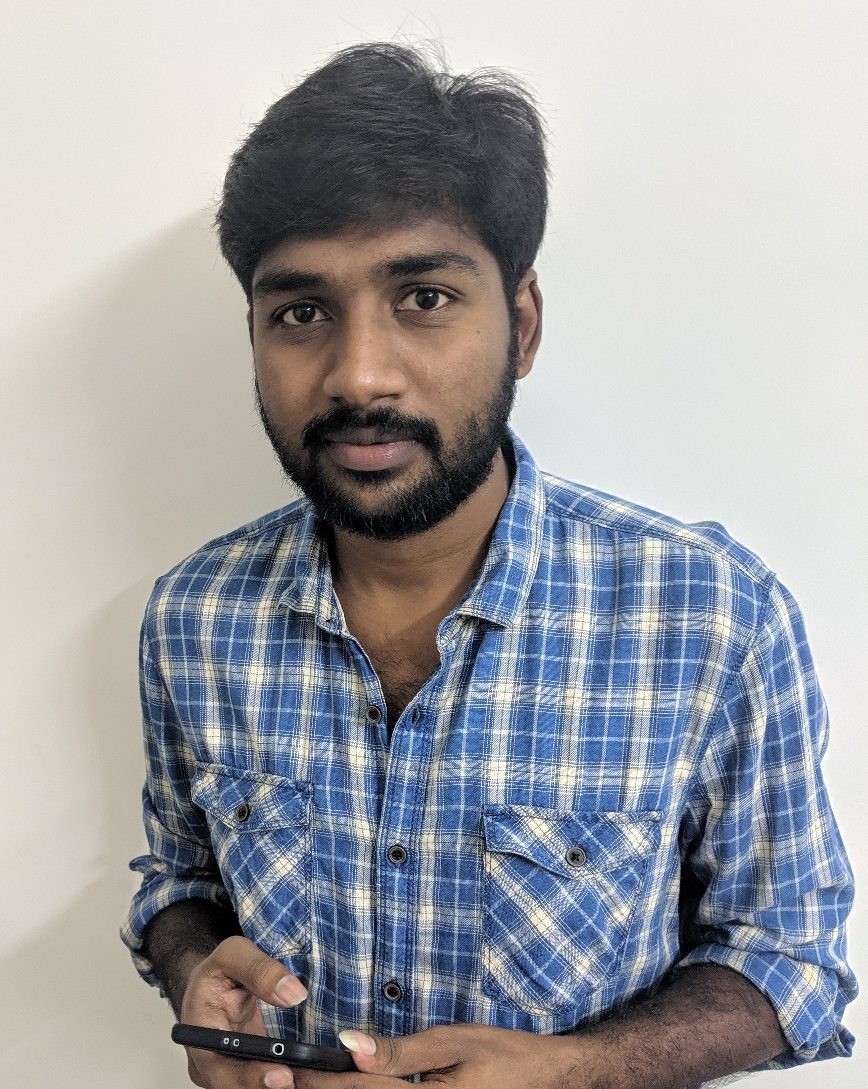
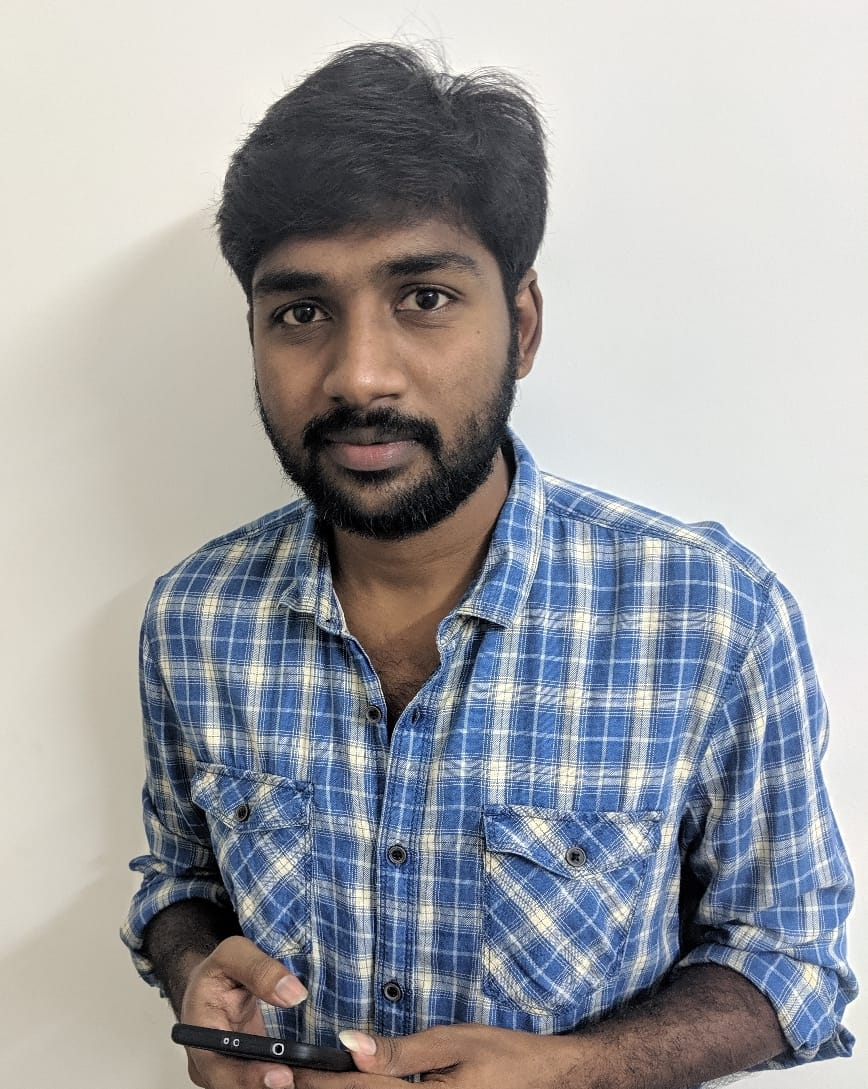
updating content, img optimize
optimize images for web

diff --git a/app/data/schedule.js b/app/data/schedule.js
@@ -3,46 +3,66 @@ export default [
     startTime: "09:00 am",
     endTime: "09:45 am",
     name: "Registration",
-    topicDesc: "After the registration. Come to Freshworks ground floor Cafeteria."
+    topicDesc: "Register your-self at the desk outside Freshworks ground floor cafeteria."
   },
   {
-    startTime: "",
-    endTime: "",
+    startTime: "10:00 am",
+    endTime: "10:30am",
     name: "Octane: Why and How",
     speaker: "Gokul Kathirvel",
     speakerPic: "assets/images/gokul.jpg",
     topicDesc: "A Talk about how Ember Octane, a new edition of Ember.js will help frontend developers to spin modern web apps really easily and quickly. You'll know how the Octane edition utilizes the native platform features like ES Classes, decorators, etc., effectively to write modern apps and how the entire framework aligns itself with the native ecosystem."
   },
   {
-    startTime: "",
-    endTime: "",
+    startTime: "10:30 am",
+    endTime: "11:00 am",
     name: "Differential bundling of assets in Ember",
     speaker: "Sivasubramanyam A",
     speakerPic: "assets/images/siva.jpg",
     topicDesc: "This talk proposes a technique to serve different bundles of app assets transpiled according to the user's browser. This results in a reduced bundle size and faster parsing."
   },
   {
-    startTime: "",
-    endTime: "",
+    startTime: "11:00 am",
+    endTime: "11:10 am",
+    name: "Break",
+    isBreak: true
+  },
+  {
+    startTime: "11:10 am",
+    endTime: "11:40 am",
     name: "Web performance in 2019",
     speaker: "Gopal Venkatesan",
-    speakerPic: "assets/images/gopal.png",
+    speakerPic: "assets/images/gopal.jpeg",
     topicDesc: "Even in 2019 JavaScript is the most expensive resource when compared against HTML, CSS or other media.  In this talk the speaker will walk through various techniques to reduce JavaScript payload to increase the performance of your website.  Also we will learn various tools available to measure the performance and find out bottlenecks of your website."
   },
   {
-    startTime: "",
-    endTime: "",
+    startTime: "11:40 am",
+    endTime: "11:50 am",
     name: "Ember Accessibility",
     speaker: "Kandha Vivek Raj K",
     speakerPic: "assets/images/vivek.jpg",
     topicDesc: "Accessibility is an important aspect of applications. This add-on makes it easy to develop accessible apps by providing contextual feedback wherever necessary."
   },
   {
-    startTime: "",
-    endTime: "",
+    startTime: "11:00 am",
+    endTime: "11:10 am",
+    name: "Break",
+    isBreak: true
+  },
+  {
+    startTime: "12:00 pm",
+    endTime: "12:30 pm",
     name: "Planting Abstract Syntax Trees",
     speaker: "Rajasegar Chandiran",
     speakerPic: "assets/images/Rajasegar.jpg",
     topicDesc: ""
+  },
+  {
+    startTime: "12:30 pm",
+    endTime: "01:00 pm",
+    name: "JAM Stack",
+    speaker: "Kanjarla praneeth",
+    speakerPic: "assets/images/kanjarla-praneeth.jpeg",
+    topicDesc: "Evaluation of JAM stack and how rapidly it's occupying the market.how is the market opportunities  and what ,where to learn"
   }
 ]

diff --git a/README.md b/README.md
@@ -1,21 +1,20 @@
 # chennai-ember-website
  
- This is the repo for emberjs chennai website.
+ This is the repo for Chennai EmberJS website.
  This repo also acts as a showcase of latest ember features
 
- ## Features includes
+ ## Features include
 * [Ember Octane](https://emberjs.github.io/rfcs/0364-roadmap-2018.html#ember-octane)
-  - [ ] [Native Classes](https://blog.emberjs.com/2019/02/11/coming-soon-in-ember-octane-part-1.html)
-  - [ ] [Angle Brackets & Named Arguments](https://blog.emberjs.com/2019/02/19/coming-soon-in-ember-octane-part-2.html)
-  - [ ] [Tracked Properties](https://blog.emberjs.com/2019/02/26/coming-soon-in-ember-octane-part-3.html)
-  - [ ] [Element Modifiers](https://blog.emberjs.com/2019/03/06/coming-soon-in-ember-octane-part-4.html)
-  - [ ] [Glimmer Components](https://www.pzuraq.com/coming-soon-in-ember-octane-part-5-glimmer-components/)
+  - [Native Classes](https://blog.emberjs.com/2019/02/11/coming-soon-in-ember-octane-part-1.html)
+  - [Angle Brackets & Named Arguments](https://blog.emberjs.com/2019/02/19/coming-soon-in-ember-octane-part-2.html)
+  - [Tracked Properties](https://blog.emberjs.com/2019/02/26/coming-soon-in-ember-octane-part-3.html)
+  - [Element Modifiers](https://blog.emberjs.com/2019/03/06/coming-soon-in-ember-octane-part-4.html)
+  - [Glimmer Components](https://www.pzuraq.com/coming-soon-in-ember-octane-part-5-glimmer-components/)
 
-- [ ] [embroider](https://github.com/embroider-build/embroider)
-- [ ] [Progressive Web App](https://madhatted.com/2017/6/16/building-a-progressive-web-app-with-ember)
-- [ ] [Fastboot Rehydration](https://github.com/ember-fastboot/fastboot/pull/185)
-- [ ] [ES5 Getters](https://emberjs.github.io/rfcs/0281-es5-getters.html)
-- [ ] [No jQuery](https://emberjs.github.io/rfcs/0294-optional-jquery.html)
+- [Progressive Web App](https://madhatted.com/2017/6/16/building-a-progressive-web-app-with-ember)
+- [Fastboot Rehydration](https://github.com/ember-fastboot/fastboot/pull/185)
+- [ES5 Getters](https://emberjs.github.io/rfcs/0281-es5-getters.html)
+- [No jQuery](https://emberjs.github.io/rfcs/0294-optional-jquery.html)
 
 ## Prerequisites
 
